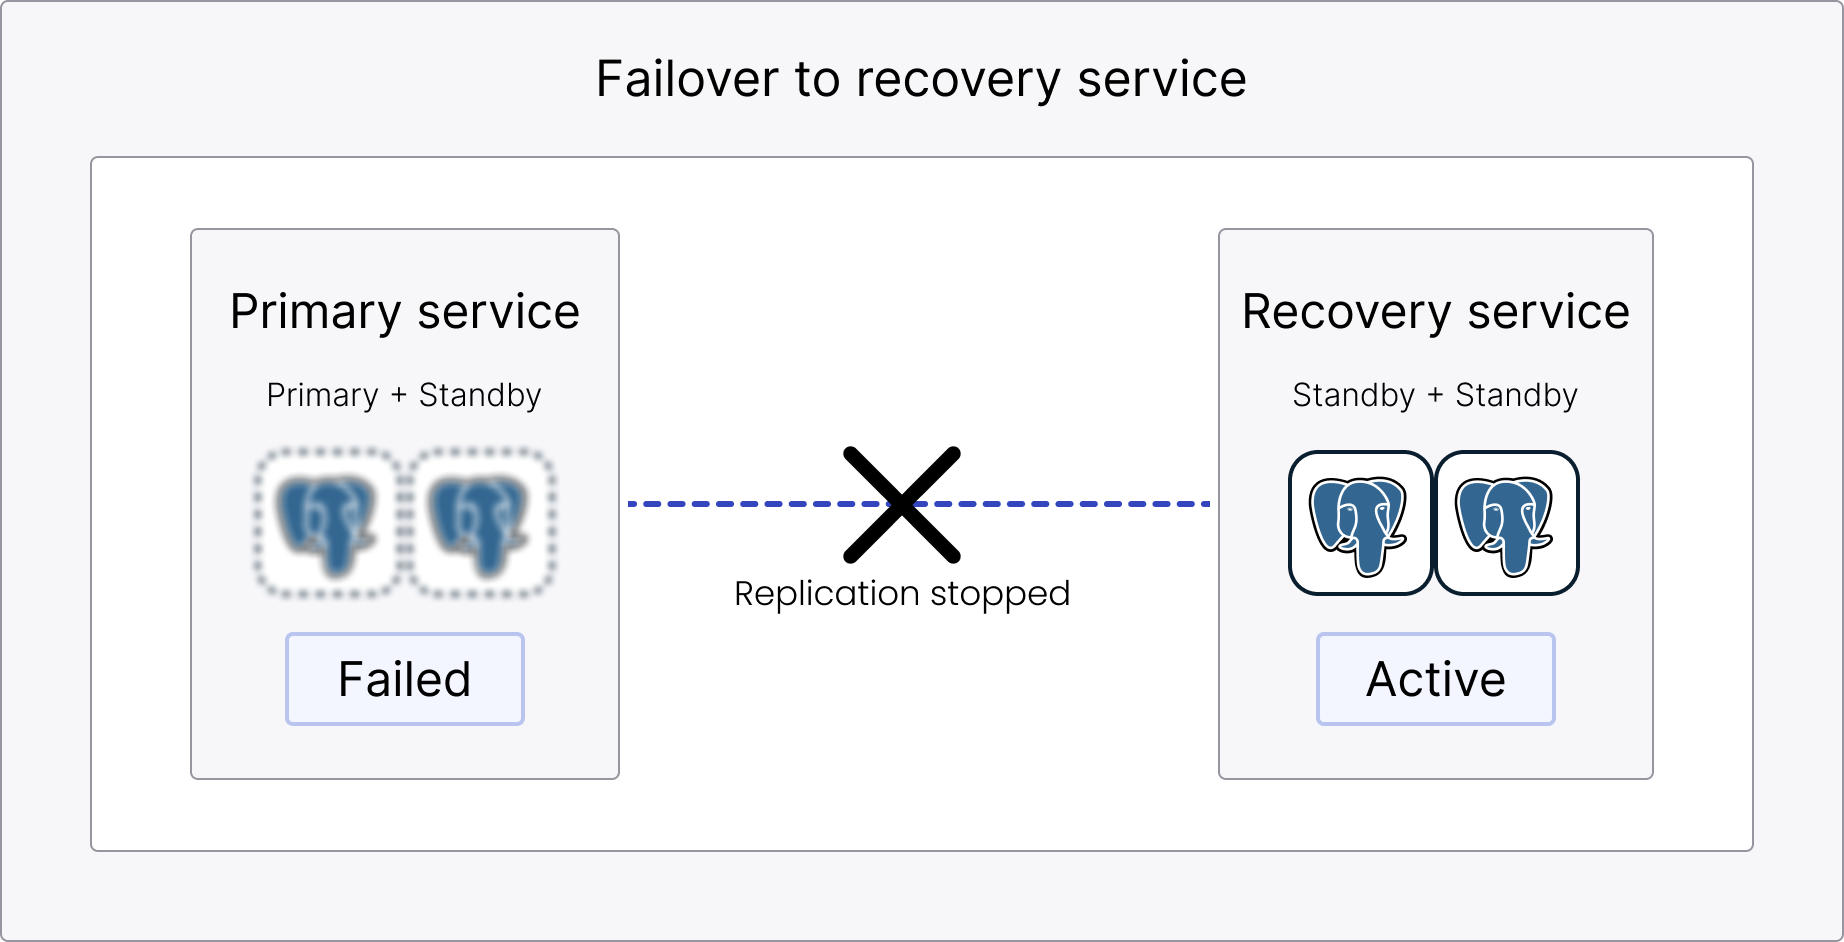
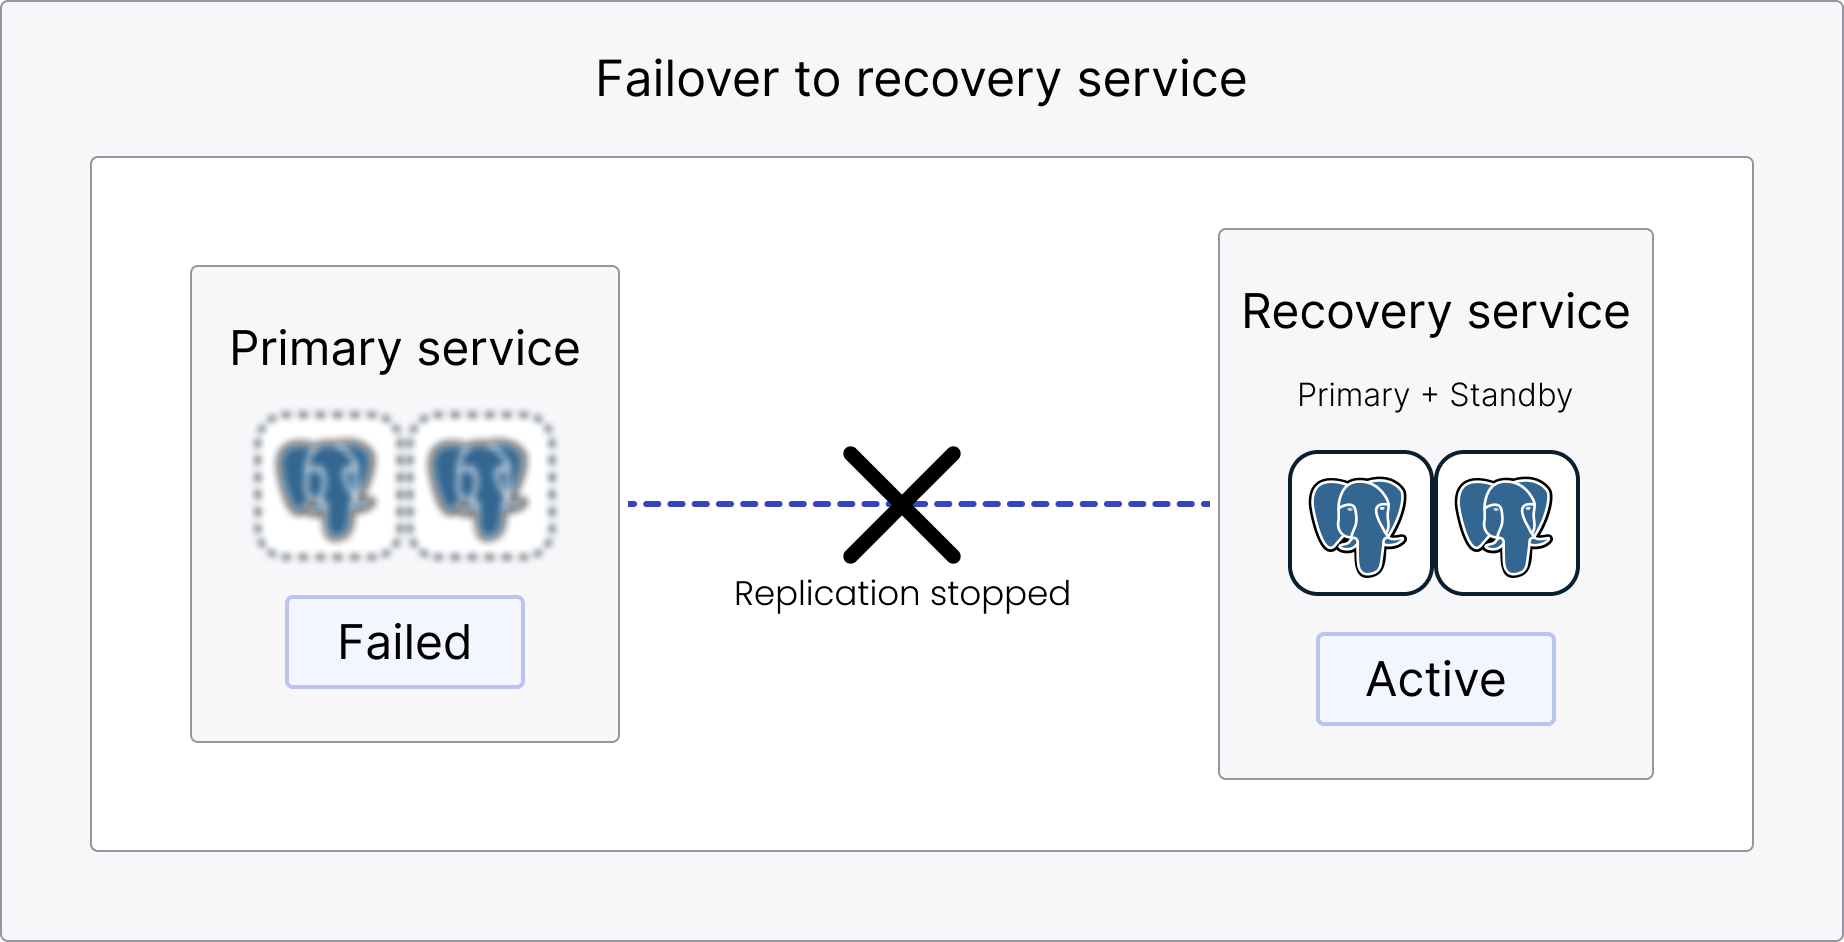
revert diagram

Changed region(s): [[0.1236, 0.3079, 0.3091, 0.8004], [0.68, 0.4002, 0.8655, 0.431]]

diff --git a/docs/products/postgresql/crdr/crdr-overview.md b/docs/products/postgresql/crdr/crdr-overview.md
@@ -9,6 +9,7 @@ import ConsoleLabel from "@site/src/components/ConsoleIcons";
 import readyForCrdr from "@site/static/images/content/figma/ready-for-crdr.png";
 import crdrSetup from "@site/static/images/content/figma/crdr-setup.png";
 import crdrFailover from "@site/static/images/content/figma/crdr-failover.png";
+import crdrRevert from "@site/static/images/content/figma/crdr-revert.png";
 
 The cross-region disaster recovery (CRDR) feature ensures your business continuity by
 automatically recovering your workloads to a remote region in the event of a region-wide
@@ -112,6 +113,8 @@ A revert process consists of two steps you initiate manually at your convenience
    the replication to effectively route the traffic back to the primary region. When
    completed, both the PRS and the RRS are up and running again: the PRS as an active
    service, and the RRS as a passive service.
+
+<img src={crdrRevert} className="centered" alt="CRDR revert" width="100%" />
 
 ## DNS address and service URI
 
